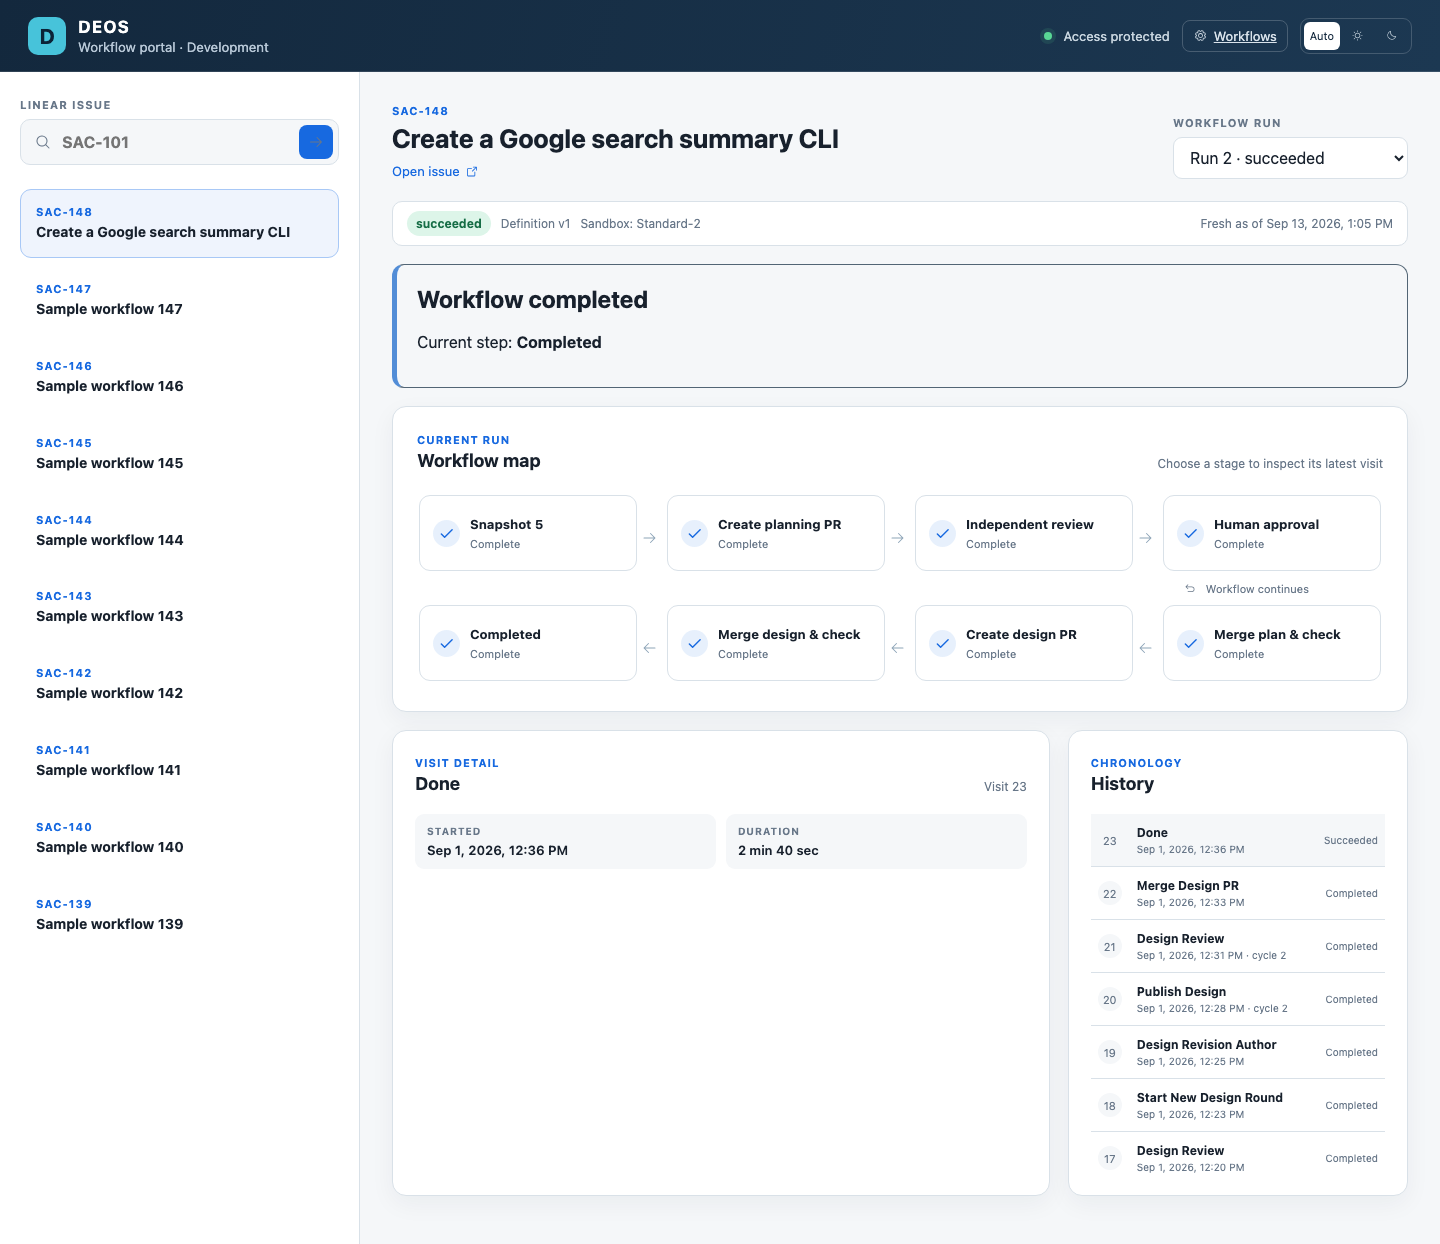
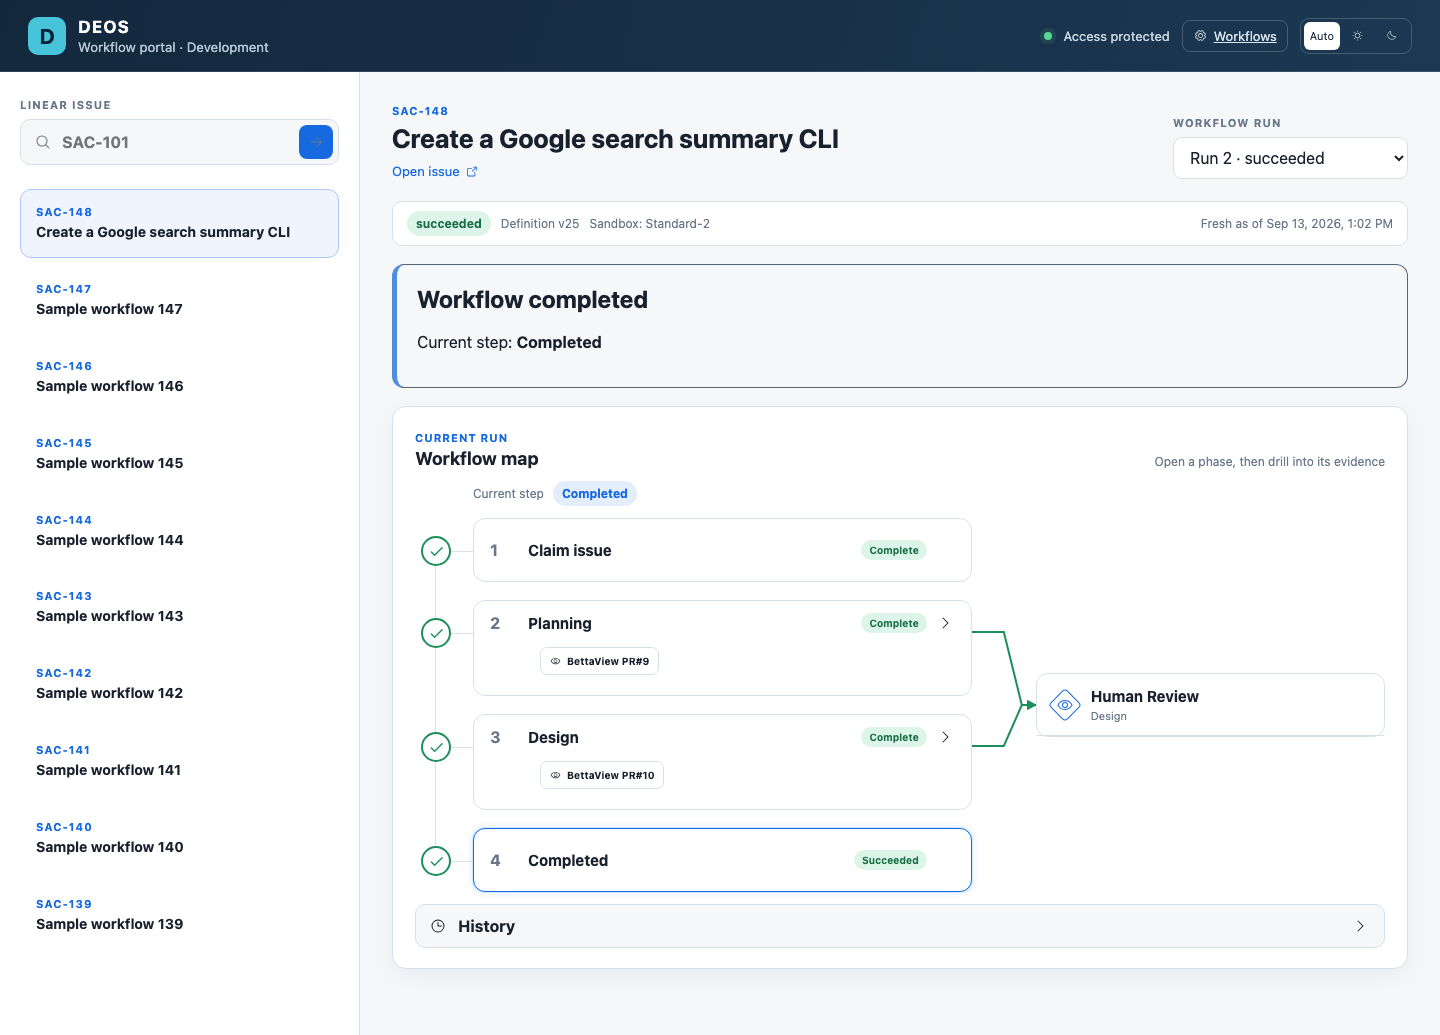
fix(portal): simplify live toggle and refresh workflow evidence

diff --git a/portal/src/main.tsx b/portal/src/main.tsx
@@ -512,9 +512,7 @@ class RunRenderBoundary extends Component<{ children: ReactNode }, { failed: boo
 function LiveUpdatesControl() {
   const preference = useSyncExternalStore(liveUpdates.subscribe, liveUpdates.getSnapshot);
   return <section className="settings-card controls-card live-updates-card" aria-labelledby="live-updates-title">
-    <h2 id="live-updates-title">Live updates</h2>
-    <p>Show confirmed workflow changes automatically. This choice stays in this browser.</p>
-    <label className="switch-row"><span><strong>Live updates</strong><small>{preference.enabled ? "On — confirmed changes appear automatically." : "Off — use Apply update when you are ready."}</small></span><input type="checkbox" role="switch" aria-label="Live updates" checked={preference.enabled} onChange={event => liveUpdates.setEnabled(event.target.checked)} /></label>
+    <label className="switch-row"><span id="live-updates-title"><strong>Live updates</strong></span><input type="checkbox" role="switch" aria-label="Live updates" checked={preference.enabled} onChange={event => liveUpdates.setEnabled(event.target.checked)} /></label>
     {preference.notice && <p role="status">{noticeText[preference.notice]}</p>}
   </section>;
 }
@@ -1083,10 +1081,11 @@ function App() {
     setRetryMessage(null);
     try {
       await retryMutation(`/api/runs/${encodeURIComponent(runId)}/retry`, projection.retry);
+      if (currentRunRef.current !== runId) return;
       setRetryMessage(`Retry started from ${step}. Completed work was kept.`);
       await loadProjection(runId, true);
     } catch (error) {
-      setRetryMessage(errorText(error));
+      if (currentRunRef.current === runId) setRetryMessage(errorText(error));
     } finally {
       setRetrying(false);
     }

diff --git a/docs/evidence/sac-153-implementation/README.md b/docs/evidence/sac-153-implementation/README.md
@@ -16,7 +16,7 @@ See [executable browser checks](checks.md). To reproduce, install dependencies, 
 
 ## Evidence boundary
 
-These are local browser tests with controlled fixtures, not provider-originated or production proof. The screenshots use sample run data. The existing poll interval, response comparison, read API, and server data are unchanged. This change does not add a new projection ordering rule.
+These are local browser tests with controlled fixtures, not provider-originated or production proof. The screenshots use sample run data in the current grouped workflow layout. Earlier PR screenshots incorrectly used the legacy version-1 layout; those have been replaced. The test still checks the legacy layout separately, without using it for the screenshots. The existing poll interval, response comparison, read API, and server data are unchanged. This change does not add a new projection ordering rule.
 
 Production deployment, active-version readback, and authenticated live screenshots remain a release step after authorization. No portal or backend was deployed for this implementation PR.
 

diff --git a/docs/evidence/sac-153-implementation/checks.md b/docs/evidence/sac-153-implementation/checks.md
@@ -18,3 +18,12 @@ rtk node --experimental-strip-types portal/e2e/live-updates.mjs
 ```output
 {"result":"passed","apiRequests":21,"scenarios":["manual baseline","latest pending","atomic snapshot","pending promotion","cross-tab sync","reload","reopen","live polling","poll failure preservation","disable","browser isolation","invalid storage","denied storage","render failure","no preference requests"]}
 ```
+
+```bash
+rtk node --experimental-strip-types portal/e2e/live-update-races.mjs && rtk node --experimental-strip-types portal/e2e/live-updates.mjs
+```
+
+```output
+Passed: late retry response preserves the selected run and its polling; run switching loads a new baseline; delayed issue response cannot replace current run; poll completion uses the latest mode.
+{"result":"passed","apiRequests":26,"scenarios":["manual baseline","latest pending","atomic snapshot","pending promotion","cross-tab sync","reload","reopen","live polling","poll failure preservation","disable","browser isolation","invalid storage","denied storage","render failure","no preference requests"]}
+```
